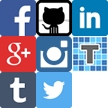
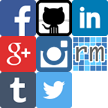
ui: update resume and some static resources (#9)

Changed region(s): [[0.6667, 0.3889, 0.9722, 0.6111]]

diff --git a/static/javascripts/src/views/home/HomeView.js b/static/javascripts/src/views/home/HomeView.js
@@ -22,7 +22,7 @@ define([
 
         render: function() {
             this.$el.html(_.template(homeTemplate)({
-                avatarRandNum: this.getRandomInt(1, 4)
+                avatarRandNum: this.getRandomInt(1, 5)
             }));
             this.$el.append(this.subViews.githubContribView.$el);
             this.subViews.githubContribView.render();
@@ -44,7 +44,7 @@ define([
         // max is excluded
         // so (1, 6) will only output a number between 1 and 5
         getRandomInt: function(min, max) {
-            return Math.floor(Math.random() * (max - min)) + min;
+            return Math.floor(Math.random() * (max+1 - min)) + min;
         }
     });
 

diff --git a/static/javascripts/src/config.js b/static/javascripts/src/config.js
@@ -19,7 +19,7 @@ requirejs.config({
         'cal-heatmap': '../bower/cal-heatmap/cal-heatmap',
         'd3': '../bower/d3/d3',
         'domReady': '../bower/requirejs-domready/domReady',
-        'ga': '//www.google-analytics.com/analytics',
+        'ga': 'https://www.google-analytics.com/analytics',
         'jquery': '../bower/jquery/dist/jquery',
         'marked': '../bower/marked/lib/marked',
         'templates': '../../templates',

diff --git a/static/stylesheets/src/sprites.less b/static/stylesheets/src/sprites.less
@@ -121,4 +121,12 @@
   &.avatar-3 {
     .stitches-icon(-300px, 0, 150px, 150px)
   }
+
+  &.avatar-4 {
+    .stitches-icon(-450px, 0, 150px, 150px)
+  }
+
+  &.avatar-5 {
+    .stitches-icon(-600px, 0, 150px, 150px)
+  }
 }
